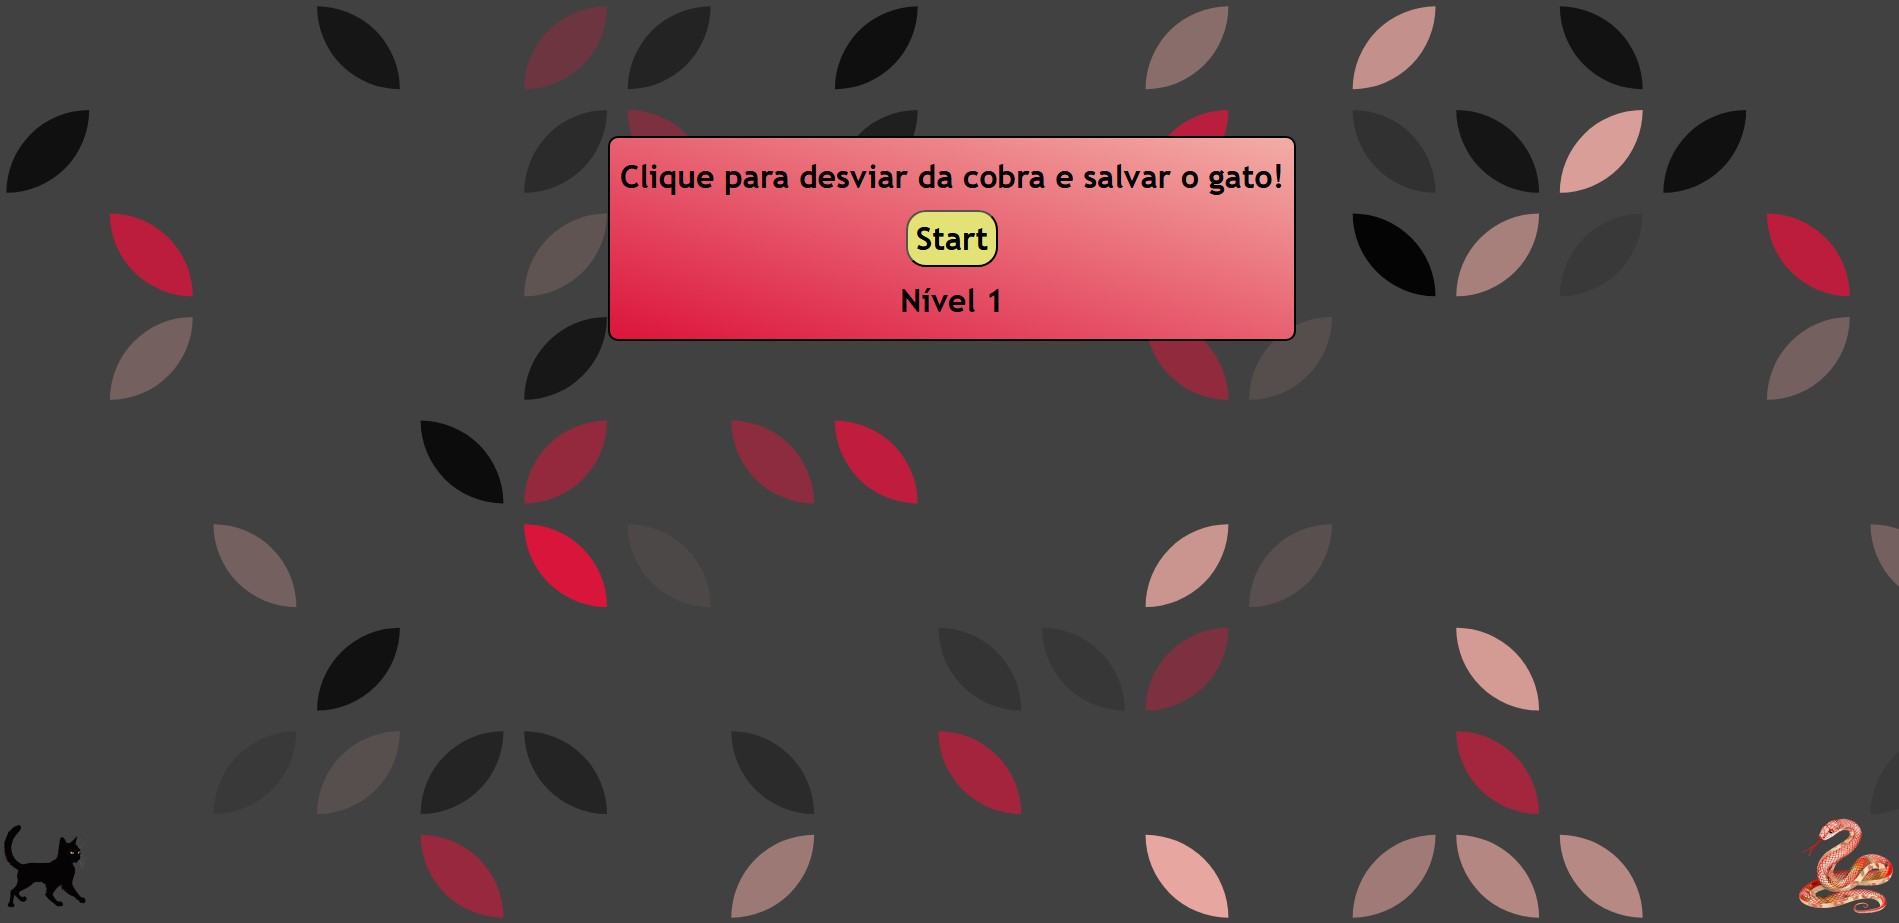
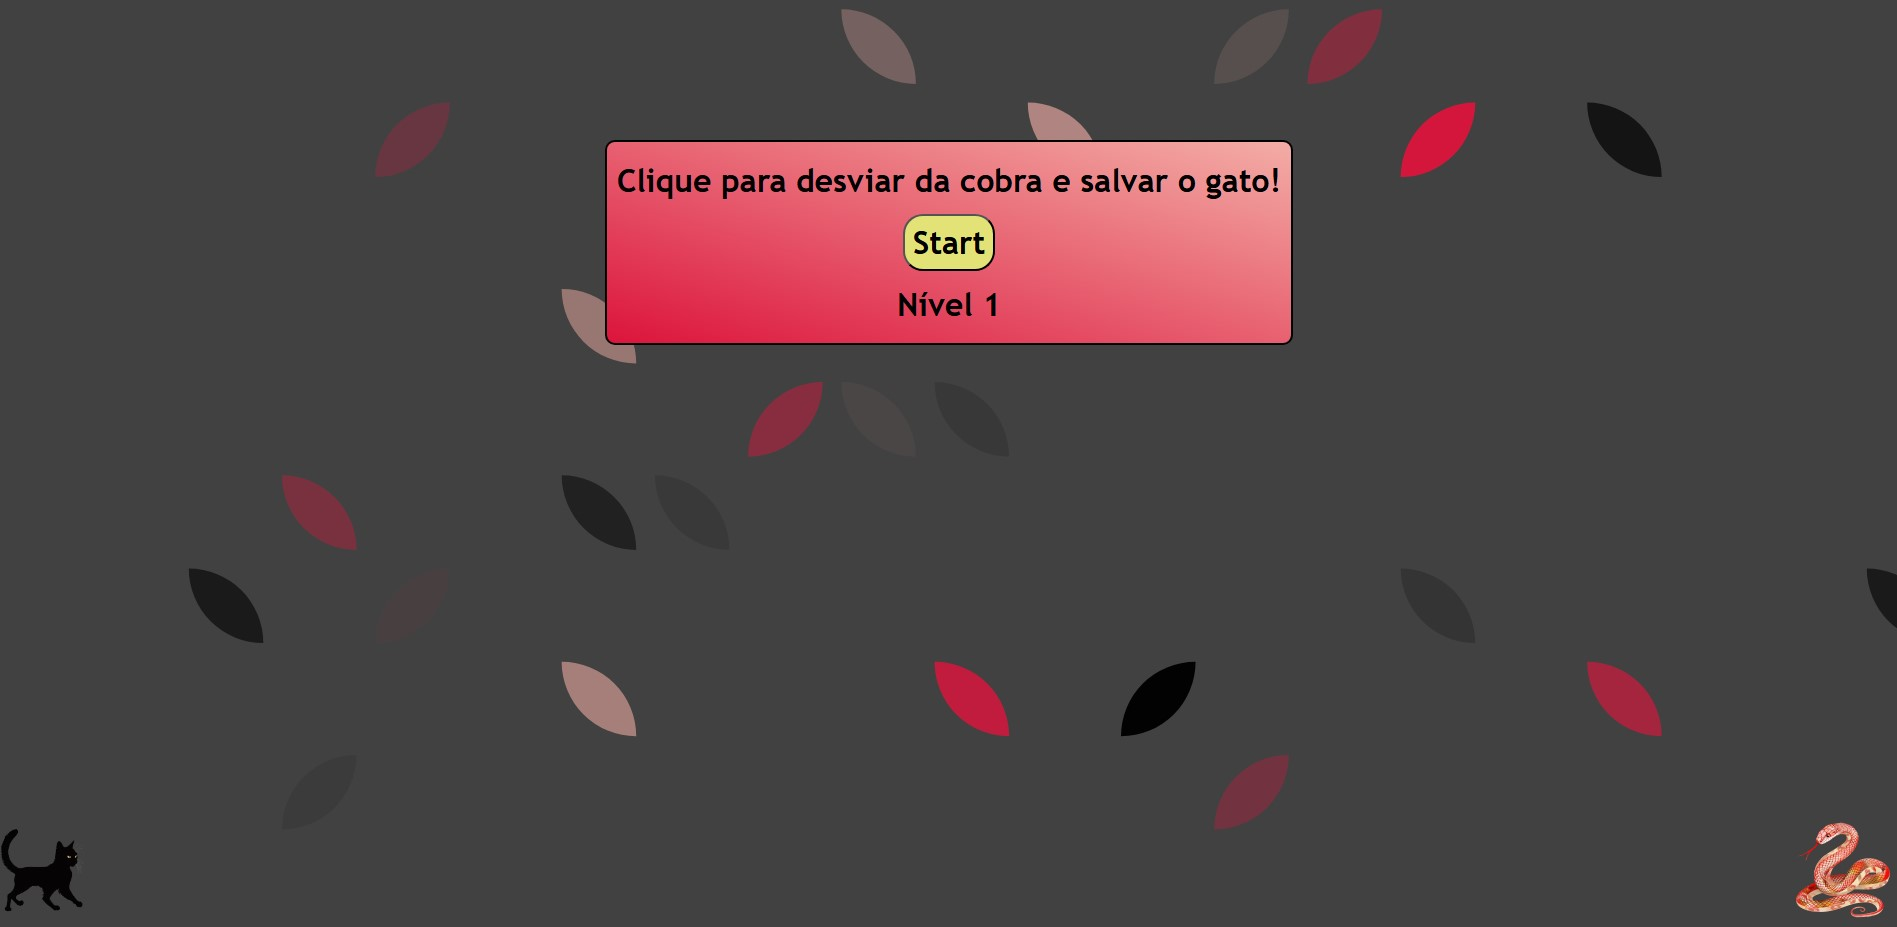
jump game background

diff --git a/jumpgame/jumpstyle.css b/jumpgame/jumpstyle.css
@@ -7,10 +7,10 @@
 }
 
 :root {
-  --color-one: rgb(65, 65, 65);
+  --color-one: #414141;
   --color-two: #dc143c;
   --color-three: #f3ada6;
-  --color-four: rgb(226, 226, 117);
+  --color-four: #e2e275;
   --primary-font: "Trebuchet MS", "Lucida Sans Unicode", "Lucida Grande",
     "Lucida Sans", Arial, sans-serif;
 }
@@ -21,7 +21,7 @@ body {
   display: flex;
   justify-content: center;
   align-items: center;
-  background: url(imagens/patternpad-2025-09-30-01-36-20.svg);
+  background: url(imagens/patternpad-2025-10-02-15-33-33.svg);
   overflow: hidden;
 }
 
